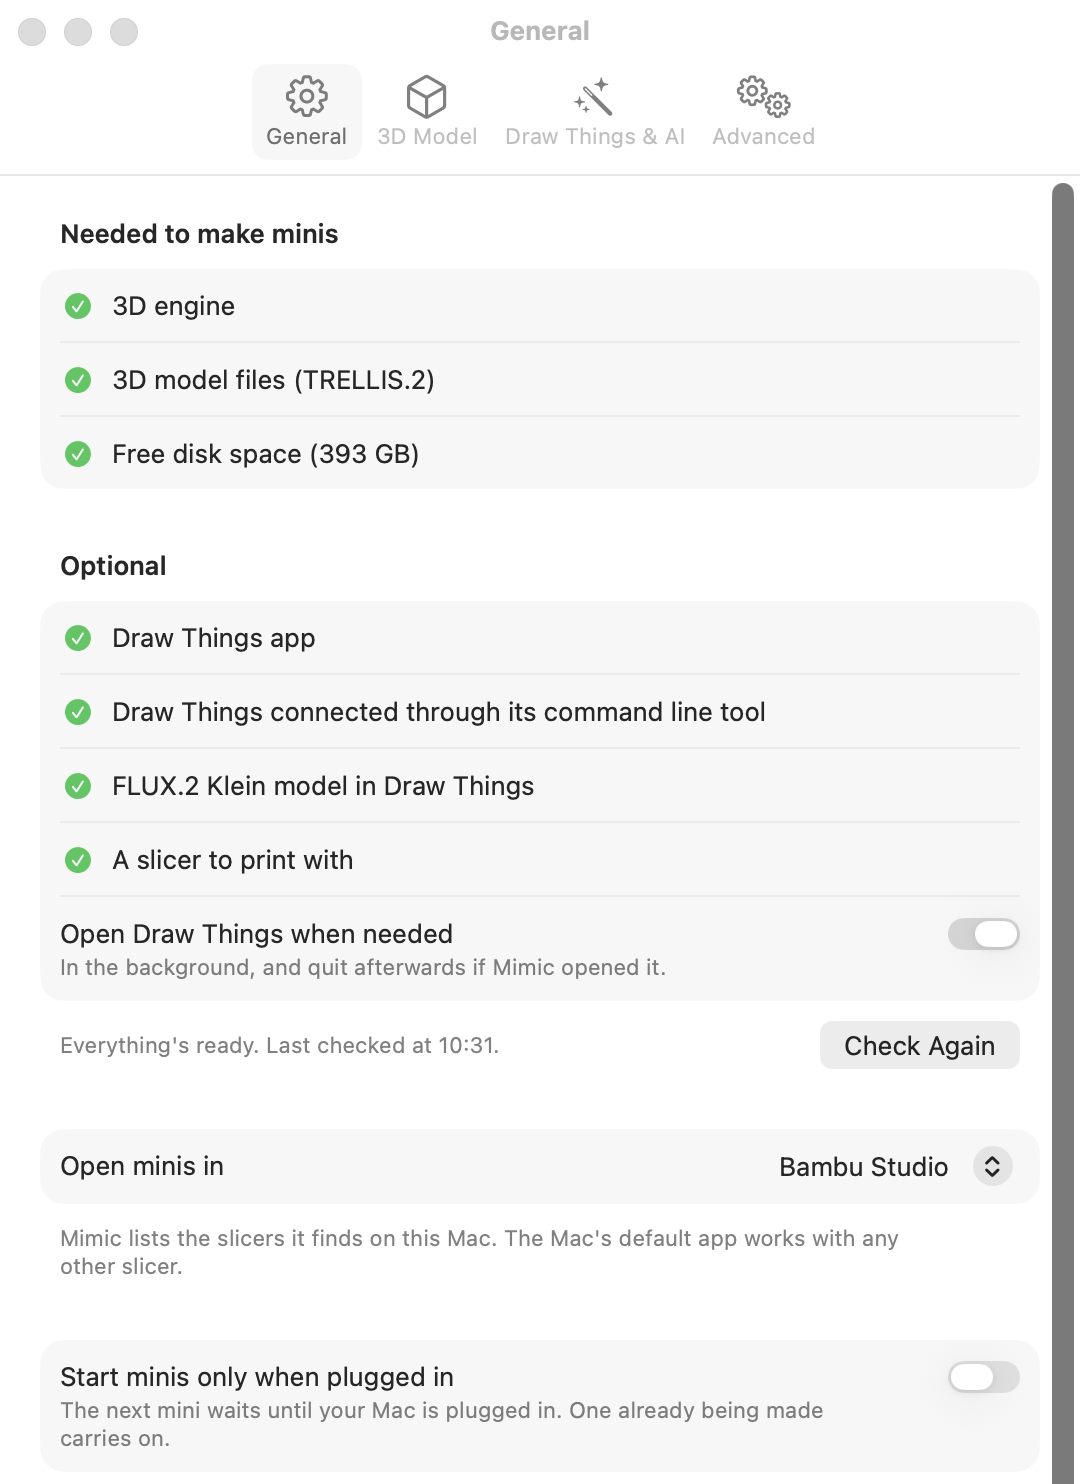
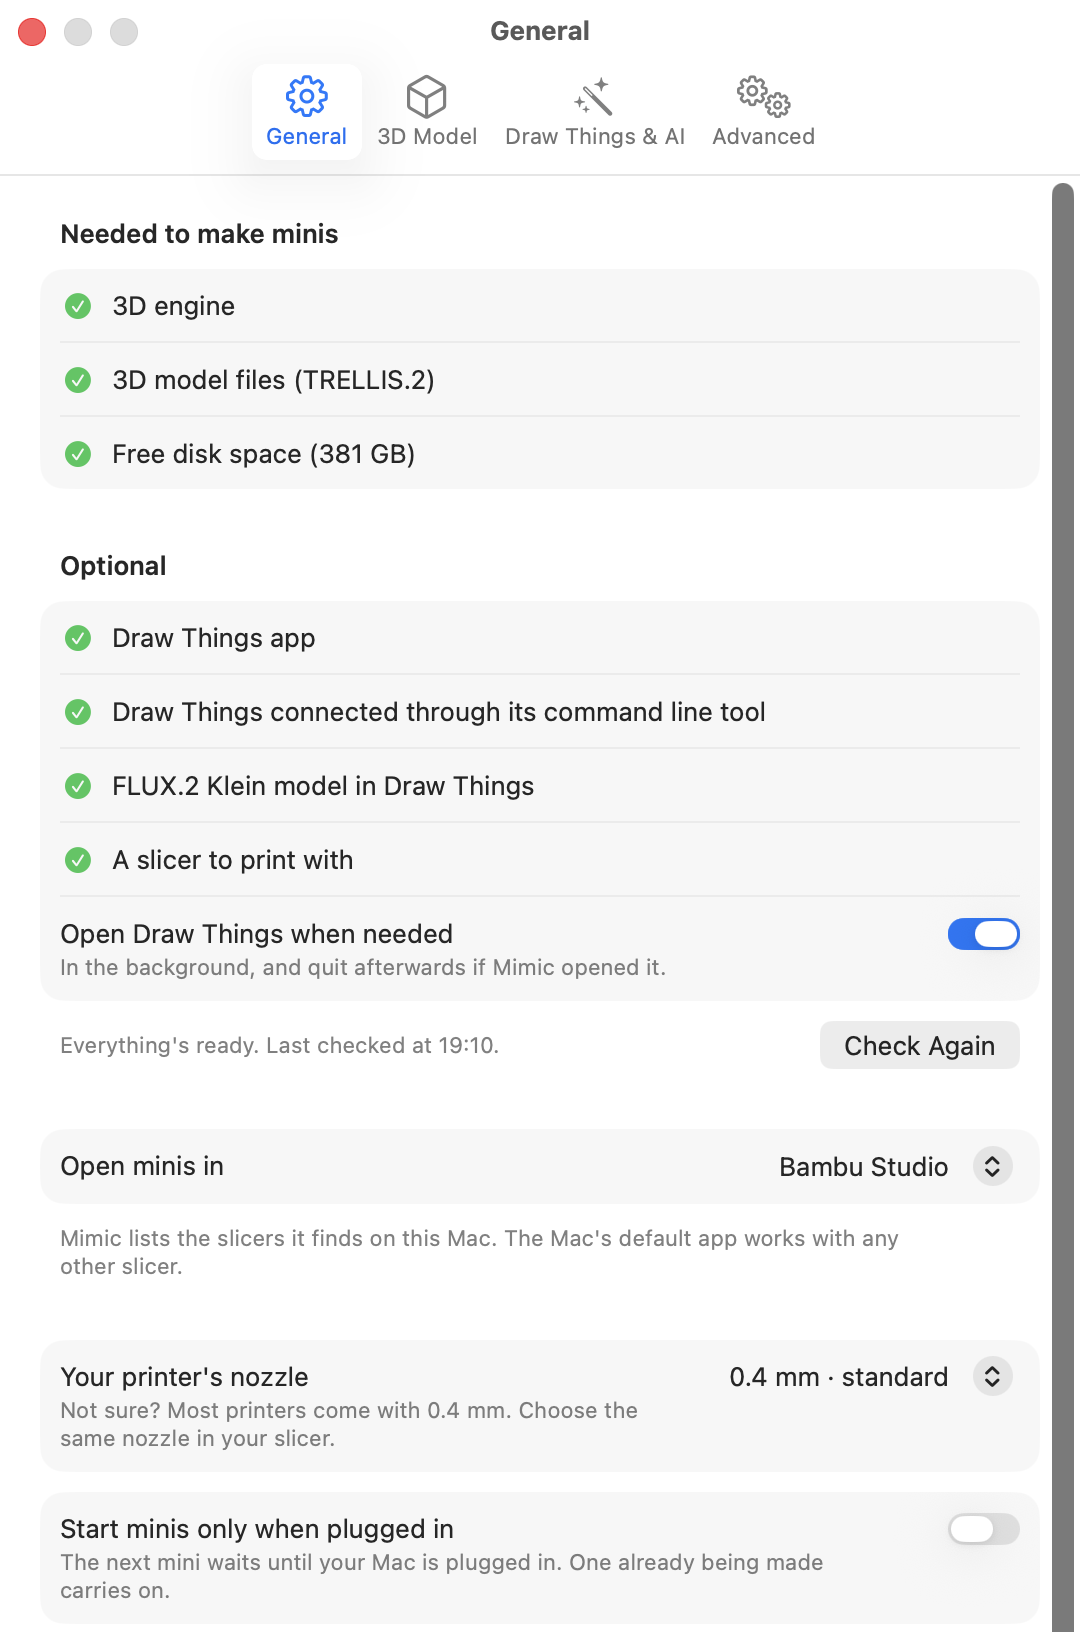
change: number the base-size marks where they belong, and retake the six screenshots

diff --git a/app/Sources/Mimic/SizeSection.swift b/app/Sources/Mimic/SizeSection.swift
@@ -234,18 +234,33 @@ private struct NozzleRow: View {
     private var differs: Bool { card.nozzle != chosen && Rules.nozzles.contains(chosen) }
 }
 
-/// A slider with tick marks at common sizes (the base's 25, 32, 40 and 50 mm), numbered. The value still
-/// goes through the card's setter, so typing any size in the field beside it keeps working.
+/// A slider with numbered marks at common sizes (the base's 25, 32, 40 and 50 mm). Drawn here:
+/// the Mac's own slider ticks spread evenly whatever their values, and their labels don't line
+/// up with them. The value still goes through the card's setter, so typing any size in the field
+/// beside it keeps working.
 private struct TickedSlider: View {
     @Binding var value: Double
     let range: ClosedRange<Double>
     let ticks: [Double]
+    /// Half the knob: the track's ends are where the knob's centre stops.
+    private static let inset: CGFloat = 10
 
     var body: some View {
-        Slider(value: $value, in: range) {
-            EmptyView()
-        } ticks: {
-            SliderTickContentForEach(ticks, id: \.self) { t in SliderTick(t) { Text("\(Int(t))") } }
+        VStack(spacing: 2) {
+            Slider(value: $value, in: range)
+            GeometryReader { g in
+                ForEach(ticks, id: \.self) { t in
+                    VStack(spacing: 1) {
+                        Rectangle().frame(width: 1, height: 4)
+                        Text("\(Int(t))").font(.caption2)
+                    }
+                    .foregroundStyle(.secondary)
+                    .position(x: Self.inset + (g.size.width - 2 * Self.inset) * (t - range.lowerBound) / (range.upperBound - range.lowerBound),
+                              y: g.size.height / 2)
+                }
+            }
+            .frame(height: 18)
+            .accessibilityHidden(true)  // the field beside it says the size
         }
     }
 }

diff --git a/docs/settings.md b/docs/settings.md
@@ -11,7 +11,7 @@ with, choose what makes pictures and set up the AI helper, and choose where your
 
 ## General
 
-![Settings, General tab: every check green, Open Draw Things when needed on, Open minis in set to Bambu Studio, and Start minis only when plugged in](images/screens/settings-general.png){ width="540" }
+![Settings, General tab: every check green, Open Draw Things when needed on, Open minis in set to Bambu Studio, Your printer's nozzle at 0.4 mm · standard, and Start minis only when plugged in](images/screens/settings-general.png){ width="540" }
 
 ### Check that everything is set up
 

diff --git a/docs/importing.md b/docs/importing.md
@@ -13,7 +13,7 @@ parts thickened for your nozzle.
 5. Choose its sizes and base, as for a new mini.
 6. Press **Import**.
 
-![Import a 3D Model for Hill Dwarf.stl: Character, Unsorted, and the size choices](images/screens/importing-import-sheet.png){ width="290" }
+![Import a 3D Model for Hill Dwarf.stl: Character, in Adventuring Party, and the size choices](images/screens/importing-import-sheet.png){ width="290" }
 
 Only the print-ready step runs, so it's quick: about a minute, and the sheet says how long. It
 needs no picture and no Draw Things. Its progress shows in the toolbar
